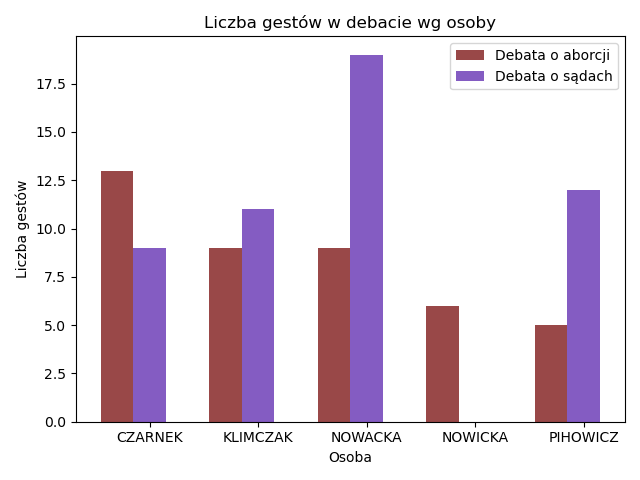
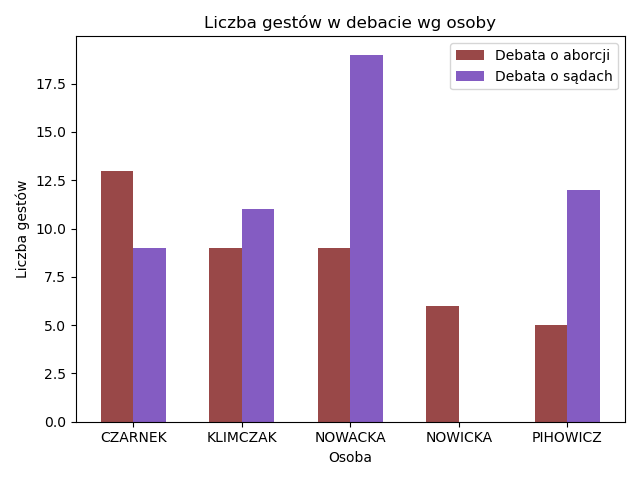
fixed x axis labels

diff --git a/analysis.py b/analysis.py
@@ -112,7 +112,7 @@ def plot_tiers():
     plt.xlabel('Osoba')
     plt.ylabel('Liczba gestów')
     plt.title('Liczba gestów w debacie wg osoby')
-    plt.xticks(index + bar_width, last_names)
+    plt.xticks(index + bar_width/2, last_names)
     plt.legend()
 
     plt.tight_layout()
